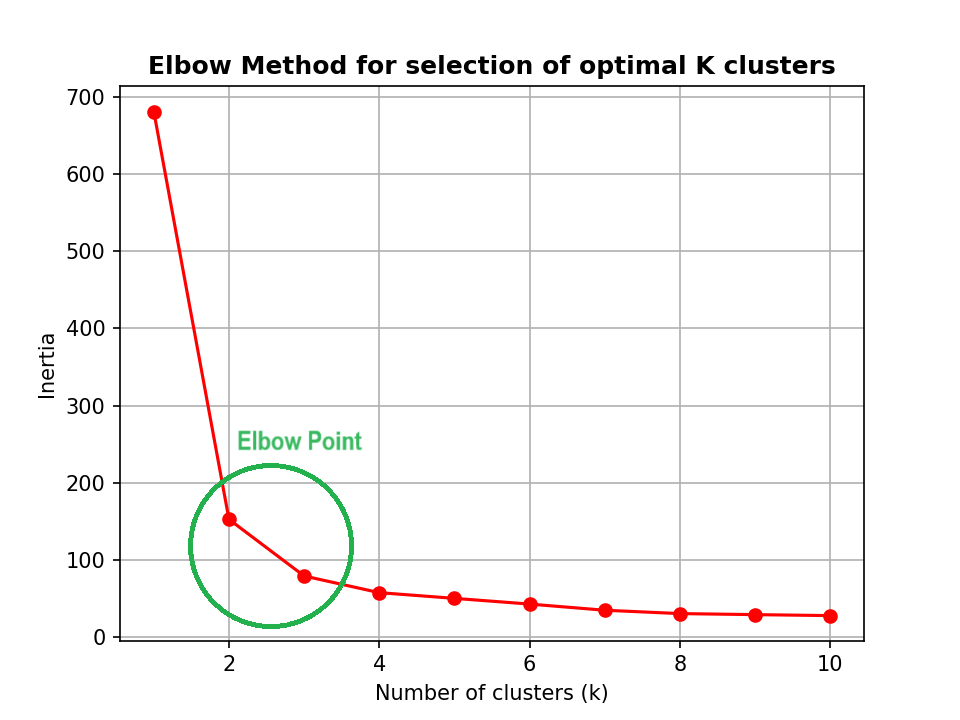
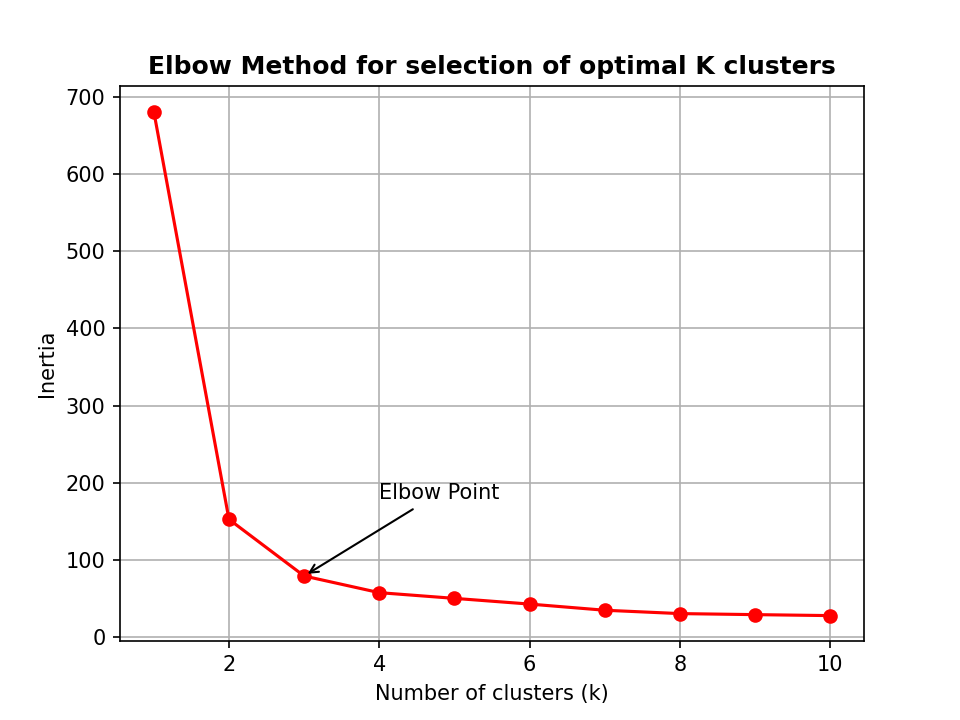
bonus

diff --git a/bonus.py b/bonus.py
@@ -1,0 +1,31 @@
+from sklearn.datasets import load_iris
+from sklearn.cluster import KMeans
+import matplotlib.pyplot as plt
+import numpy as np
+
+if __name__ == '__main__':
+    
+    np.random.seed(0)
+    iris = load_iris()
+    data = iris.data
+
+    x_axis = range(1, 11)
+
+    inertia_values = []
+
+    for k in x_axis:
+        kmeans = KMeans(n_clusters=k, init='k-means++', random_state=0)
+        kmeans.fit(data)
+        inertia_values.append(kmeans.inertia_)
+
+    #Plotting the Graph - Elbow Method
+    plt.plot(x_axis, inertia_values, marker='o', color='red')
+    plt.xlabel('Number of clusters (k)')
+    plt.ylabel('Inertia')
+    plt.grid(which='both')
+    plt.title('Elbow Method for selection of optimal K clusters',weight='bold')
+
+    plt.annotate('Elbow Point', xy=(3, inertia_values[2]), xytext=(4, inertia_values[2]+100), 
+                 arrowprops=dict(facecolor='black', arrowstyle='->'))
+    
+    plt.savefig("elbow.png",dpi=150)
